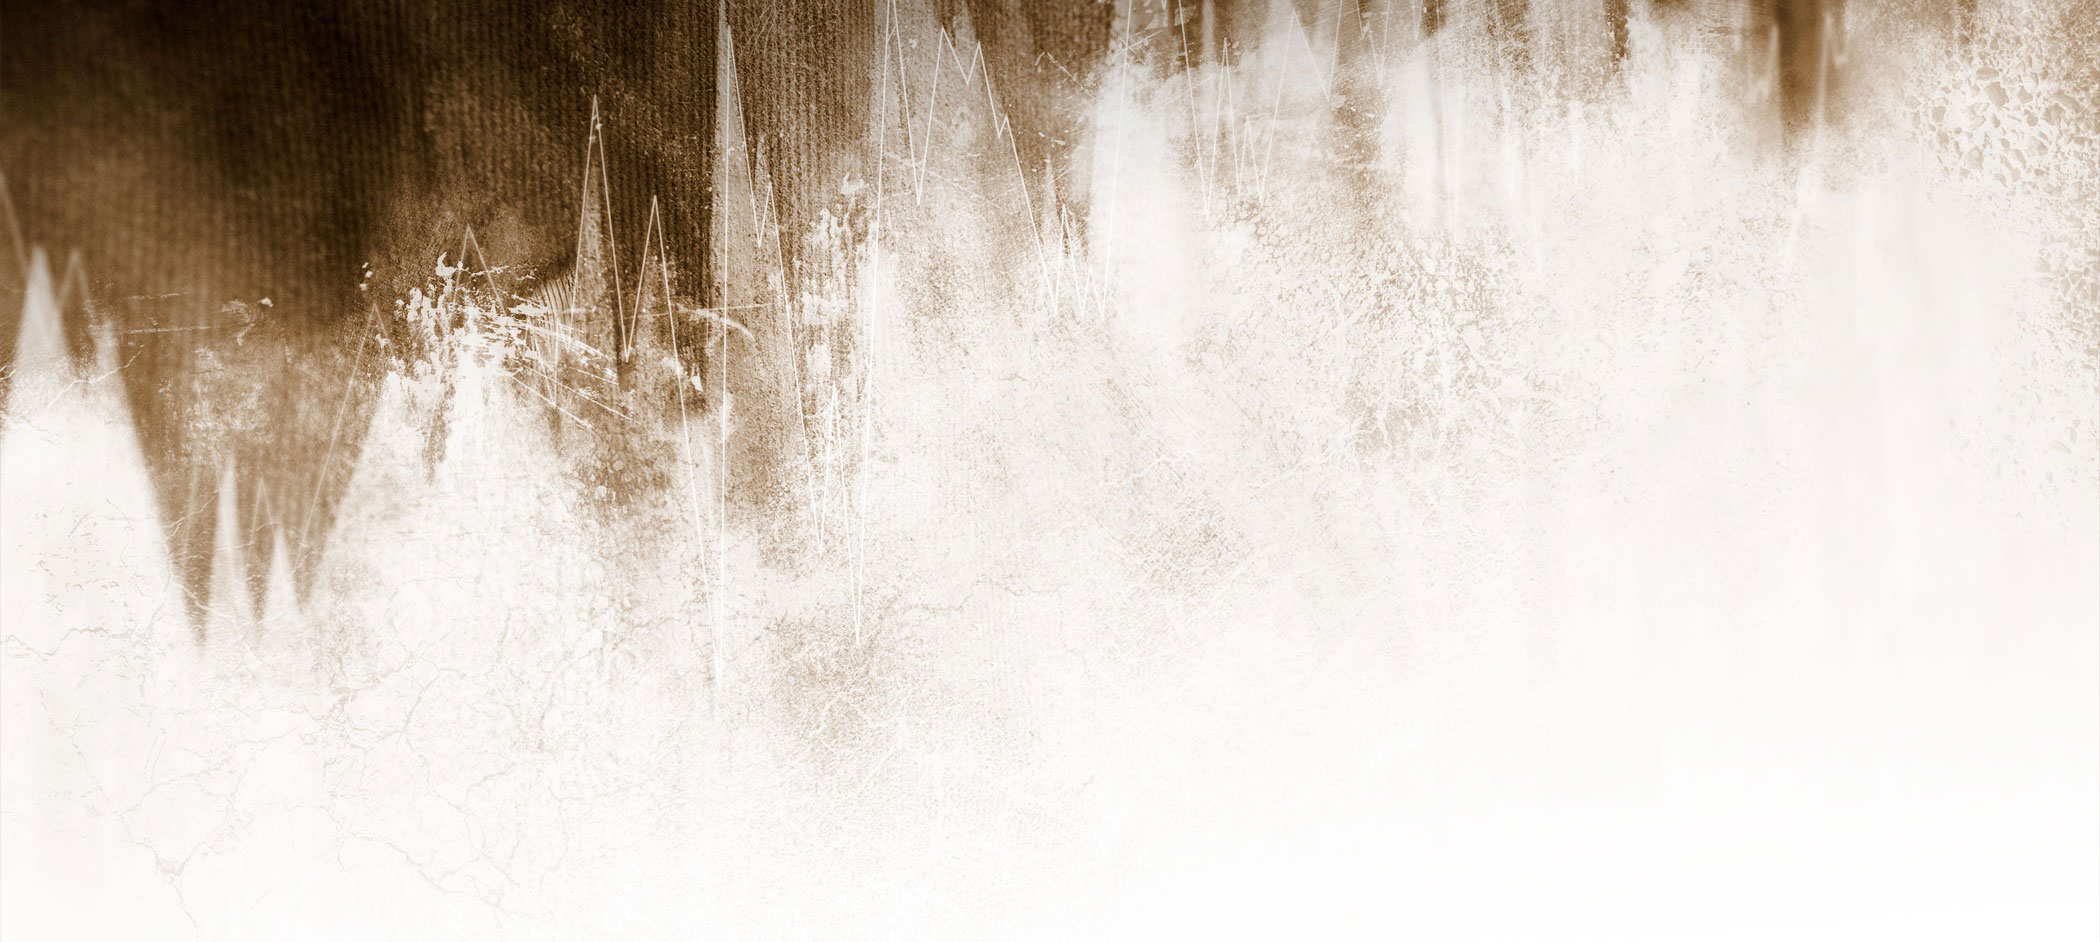
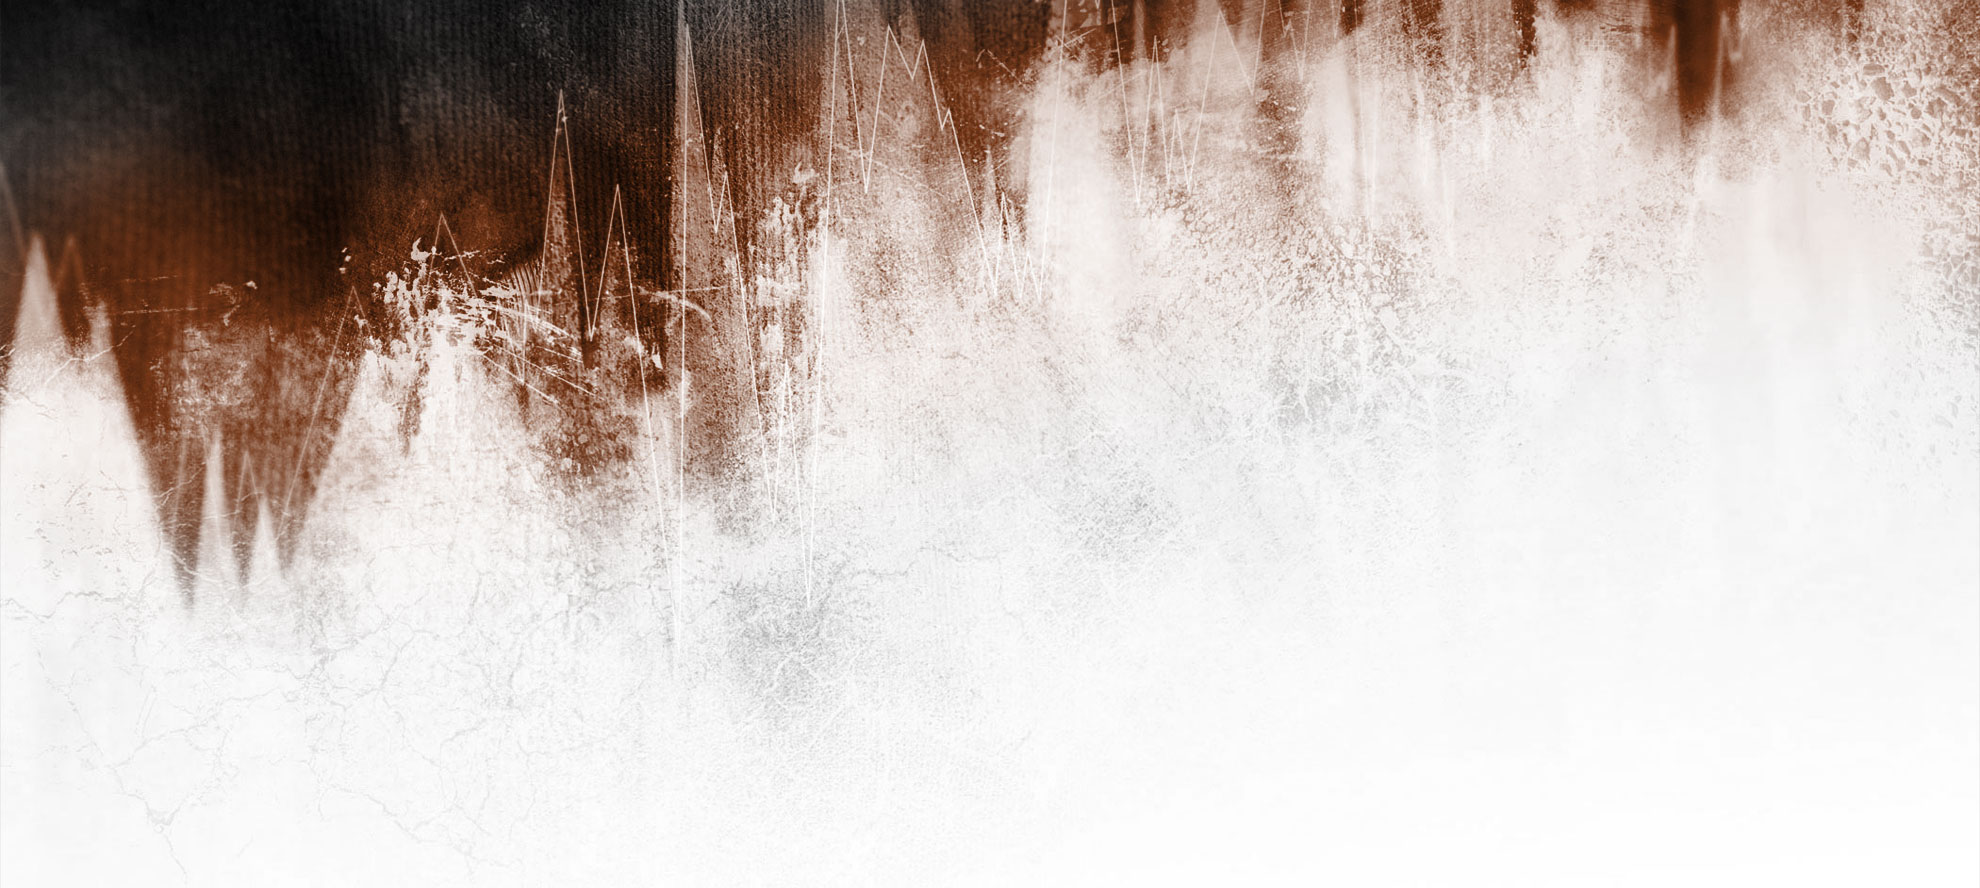
nouvelle skin noir rouge/orange

Changed region(s): [[0.0, 0.0, 1.0, 0.6385]]

diff --git a/index.html b/index.html
@@ -28,33 +28,33 @@
 		<nav id="navigation" class="line mod" role="navigation">
 				<label for="toggle-menu" data-icon="≡" title="menu" role="navigation" onclick=""></label><input type="checkbox" id="toggle-menu">
 				<ul>
-					<li><a href="#apropos">A propos</a></li>
-					<li><a href="#player">Player</a></li>
-					<li><a href="#matos">Matériel</a></li>
-					<li><a href="#tarifs">Tarifs</a></li>
-					<li><a href="#enregistrementnomade">Enregistrement nomade</a></li>
-					<li><a href="#contact">Contact</a></li>
+					<li><a href="#apropos">/A propos</a></li>
+					<li><a href="#player">/Player</a></li>
+					<li><a href="#matos">/Matériel</a></li>
+					<li><a href="#tarifs">/Tarifs</a></li>
+					<li><a href="#enregistrementnomade">/Enregistrement nomade</a></li>
+					<li><a href="#contact">/Contact</a></li>
 				</ul>
 		</nav>
 		<div class="line">
 			<div class="mod left item w70 m50 t100" id="apropos">
-				<h3 class="h4-like">A propos</h3>
+				<h3 class="h4-like">/A propos</h3>
 				<img src="images/head-apropos.jpg" alt="" />
 				<p>"Dans un monde où triomphe la quantité (toujours plus de groupes, plus de promo, de concerts, de volume, de mp3 etc...), mais avec moins de budget et moins de temps, peut-on encore accéder à la qualité ?</p>
 				<p>Loin de la compression à outrance et de la guerre du volume, je pense que tout artiste doit pouvoir offrir à sa musique un enregistrement qui retranscrit fidèlement l'intensité, la ferveur et le cœur qu'il met à la jouer, et ce, à chaque écoute. <strong>Tout mon travail est là. En m’appuyant sur un matériel délibérément inscrit dans l’histoire du son, je propose l’accès à une réelle identité sonore."</strong></p>
 				<p>Pour en savoir plus, lisez cette interview : <a href="http://www.coreandco.fr/interviews/sylvain-biguet-200.html">http://www.coreandco.fr/interviews/sylvain-biguet-200.html</a> </p>
 				<div class="embed-container">
-	    			<iframe src="http://player.vimeo.com/video/34607707?title=0&amp;byline=0&amp;portrait=0&amp;badge=0&amp;color=61371f" frameborder="0" webkitAllowFullScreen mozallowfullscreen allowFullScreen></iframe>
+	    			<iframe src="http://player.vimeo.com/video/34607707?title=0&amp;byline=0&amp;portrait=0&amp;badge=0&amp;color=702116" frameborder="0" webkitAllowFullScreen mozallowfullscreen allowFullScreen></iframe>
 				</div>
 			</div>
 			<div class="mod left w30 m50 t100" id="player">
-				<h3 class="h4-like">Player</h3>
-				<iframe class="player" width="100%" height="450" scrolling="no" frameborder="no" src="http://w.soundcloud.com/player/?url=http%3A%2F%2Fapi.soundcloud.com%2Fplaylists%2F1265791&amp;auto_play=false&amp;show_artwork=true&amp;color=61371f"></iframe>
-				<iframe class="player" width="100%" height="450" scrolling="no" frameborder="no" src="http://w.soundcloud.com/player/?url=http%3A%2F%2Fapi.soundcloud.com%2Fplaylists%2F1265787&amp;auto_play=false&amp;show_artwork=true&amp;color=61371f"></iframe>
+				<h3 class="h4-like">/Player</h3>
+				<iframe class="player" width="100%" height="450" scrolling="no" frameborder="no" src="http://w.soundcloud.com/player/?url=http%3A%2F%2Fapi.soundcloud.com%2Fplaylists%2F1265791&amp;auto_play=false&amp;show_artwork=true&amp;color=702116"></iframe>
+				<iframe class="player" width="100%" height="450" scrolling="no" frameborder="no" src="http://w.soundcloud.com/player/?url=http%3A%2F%2Fapi.soundcloud.com%2Fplaylists%2F1265787&amp;auto_play=false&amp;show_artwork=true&amp;color=702116"></iframe>
 			</div>
 		</div>
 		<div class="line mod" id="matos">
-				<h3 class="h4-like">Matériel</h3>
+				<h3 class="h4-like">/Matériel</h3>
 				<img src="images/head-materiel.jpg" alt="" />
 				<ul class="mod left w50 m50 t100 mt0 mb0 pb0 pl0 pr0 "><!-- matos -->
 					<li>Recorder
@@ -144,7 +144,7 @@
 			
 		</div>
 		<div class="line mod" id="tarifs">
-			<h3 class="h4-like">Tarifs</h3>
+			<h3 class="h4-like">/Tarifs</h3>
 			<img src="images/head-tarifs.jpg" alt="" />
 			<p class="small">Attention : les tarifs indiqués sur cette page sont purement indicatifs. Me contacter directement ici pour obtenir un devis.</p>
 			<div class="mod left w50 m50 t100 pt0 pb0 pl0">
@@ -175,7 +175,7 @@
 			</div>
 		</div>
 		<div class="line mod" id="enregistrementnomade">
-			<h3 class="h4-like">Enregistrement nomade</h3>
+			<h3 class="h4-like">/Enregistrement nomade</h3>
 			<img src="images/head-enregistrementnomade.jpg" alt="" />
 			<p>De nos jours, trois options se présentent aux musiciens qui veulent enregistrer leur musique :</p>
 			<div class="line">
@@ -197,7 +197,7 @@
 			</div>
 		</div>
 		<footer class="line mod" id="contact">
-			<h3 class="h4-like">Contact</h3>
+			<h3 class="h4-like">/Contact</h3>
 			<!-- <img src="images/head-contact.jpg" alt="" /> -->
 			<div class="line">
 				<div class="mod left pl0">

diff --git a/css/style.css b/css/style.css
@@ -1,5 +1,5 @@
 body {
-  color: #61371f; /*#555;*/
+  color: #702116; /*#555;*/
   font-family: 'Open Sans', sans-serif;
   font-weight: 300;
 }
@@ -15,11 +15,11 @@ body {
   }
 }
 ::selection {
-  background: #61371f; /* Safari */
+  background: #702116; /* Safari */
   color: #ffffff;
   }
 ::-moz-selection {
-  background: #61371f; /* Safari */
+  background: #702116; /* Safari */
   color: #ffffff; 
 }
 h1, h2, h3, h4, h5, h6, .h1-like, .h2-like, .h3-like, .h4-like, .h5-like, .h6-like {
@@ -28,7 +28,7 @@ h1, h2, h3, h4, h5, h6, .h1-like, .h2-like, .h3-like, .h4-like, .h5-like, .h6-li
   text-transform: uppercase;
 }
 .h4-like {
-  background: #61371f;
+  background: #702116;
   color: #fff;
   padding: 5px 5px 5px 10px;
 }
@@ -47,7 +47,7 @@ a {
  text-decoration: none;
 }
 a:hover {
-  background: #61371f;
+  background: #702116;
   color: #fff;
 }
 @media (max-width: 640px) {
